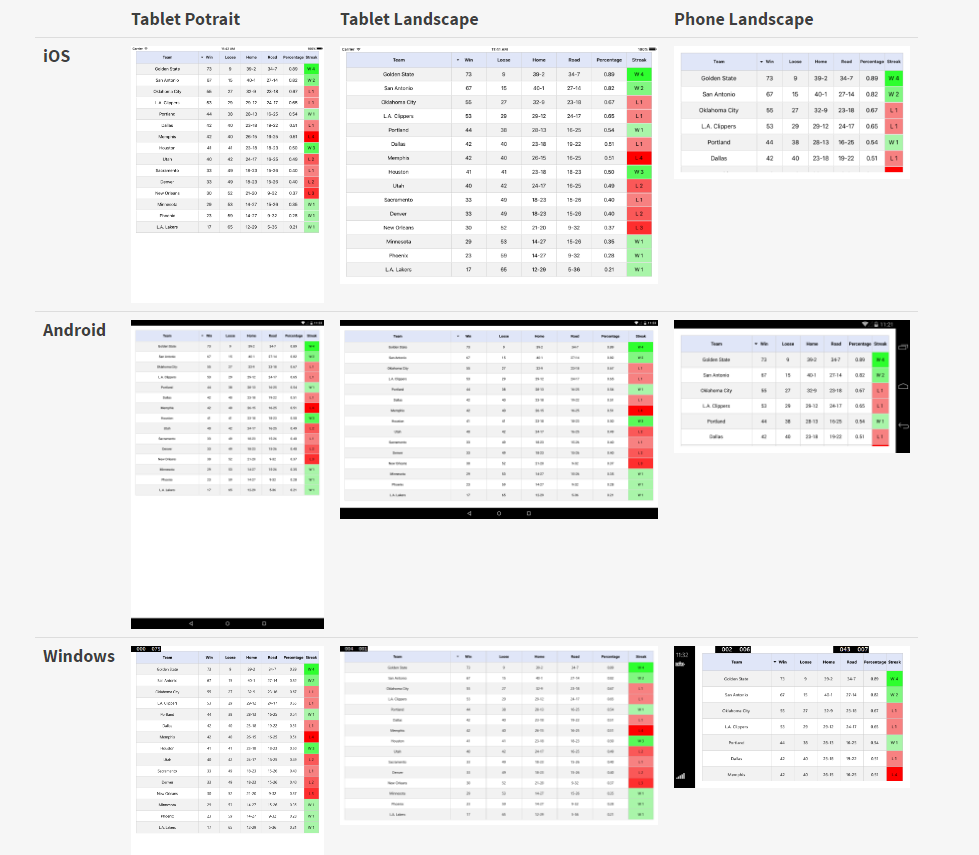
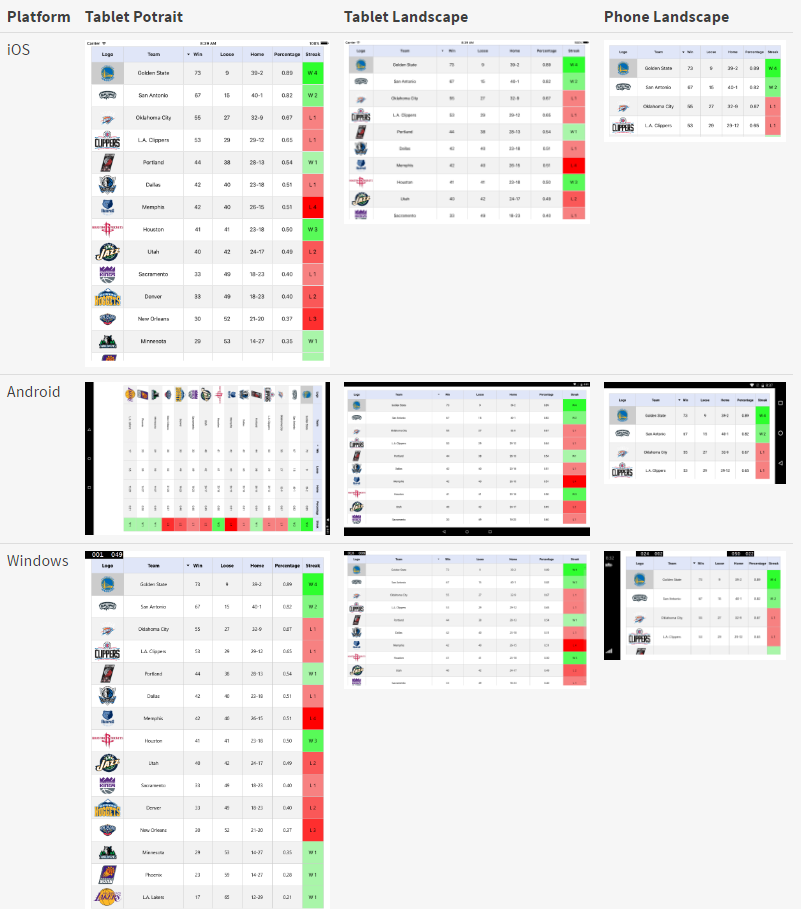
md file updated

diff --git a/README.md b/README.md
@@ -18,44 +18,49 @@ DataGrid library for Xamarin.Forms Application.
     xmlns:dg="clr-namespace:Xamarin.Forms.DataGrid;assembly=Xamarin.Forms.DataGrid"
     xmlns:conv="clr-namespace:DataGridSample.Views.Converters;assembly=DataGridSample"
 
-<dg:DataGrid ItemsSource="{Binding Teams}" RowHeight="45" HeaderHeight="50" 
-             BorderColor="#CCCCCC" HeaderBackground="#E0E6F8">
-  <dg:DataGrid.HeaderFontSize>
-    <OnIdiom  x:TypeArguments="x:Double">
-      <OnIdiom.Tablet>15</OnIdiom.Tablet>
-      <OnIdiom.Phone>13</OnIdiom.Phone>
-    </OnIdiom>
-  </dg:DataGrid.HeaderFontSize>
-  <dg:DataGrid.Columns>
-    <dg:DataGridColumn Title="Team" PropertyName="Name" Width="3*"/>
-    <dg:DataGridColumn Title="Win" PropertyName="Win" />
-    <dg:DataGridColumn Title="Loose" PropertyName="Loose" />
-    <dg:DataGridColumn Title="Home" PropertyName="Home"/>
-    <dg:DataGridColumn Title="Road" PropertyName="Road"/>
-    <dg:DataGridColumn Title="Percentage" PropertyName="Percentage" StringFormat="{}{0:0.00}" />
-    <dg:DataGridColumn Title="Streak" PropertyName="Streak" Width="0.7*">
-      <dg:DataGridColumn.CellTemplate>
-        <DataTemplate>
-          <ContentView HorizontalOptions="Fill" VerticalOptions="Fill"
-                       BackgroundColor="{Binding Streak,Converter={StaticResource StreakToColorConverter}}">
-            <Label Text="{Binding Streak}" HorizontalOptions="Center" VerticalOptions="Center" TextColor="Black"/>
-          </ContentView>
-        </DataTemplate>
-      </dg:DataGridColumn.CellTemplate>
-    </dg:DataGridColumn>
-  </dg:DataGrid.Columns>
-  <dg:DataGrid.RowsBackgroundColorPalette>
-    <dg:PaletteCollection>
-      <Color>#F2F2F2</Color>
-      <Color>#FFFFFF</Color>
-    </dg:PaletteCollection>
-  </dg:DataGrid.RowsBackgroundColorPalette>
-  <dg:DataGrid.Resources>
-    <ResourceDictionary>
-      <conv:StreakToColorConverter x:Key="StreakToColorConverter"/>
-    </ResourceDictionary>
-  </dg:DataGrid.Resources>
-</dg:DataGrid>
+    <dg:DataGrid ItemsSource="{Binding Teams}" RowHeight="70" HeaderHeight="50" BorderColor="#CCCCCC" HeaderBackground="#E0E6F8">
+      <dg:DataGrid.HeaderFontSize>
+        <OnIdiom  x:TypeArguments="x:Double">
+          <OnIdiom.Tablet>15</OnIdiom.Tablet>
+          <OnIdiom.Phone>12</OnIdiom.Phone>
+        </OnIdiom>
+      </dg:DataGrid.HeaderFontSize>
+      <dg:DataGrid.Columns>
+        <dg:DataGridColumn Title="Logo" PropertyName="Logo" Width="100">
+          <dg:DataGridColumn.CellTemplate>
+            <DataTemplate>
+              <Image Source="{Binding Logo}" HorizontalOptions="Center" VerticalOptions="Center" Aspect="AspectFit" HeightRequest="60" />
+            </DataTemplate>
+          </dg:DataGridColumn.CellTemplate>
+        </dg:DataGridColumn>
+        <dg:DataGridColumn Title="Team" PropertyName="Name" Width="2*"/>
+        <dg:DataGridColumn Title="Win" PropertyName="Win" Width="0.95*"/>
+        <dg:DataGridColumn Title="Loose" PropertyName="Loose"  Width="1*"/>
+        <dg:DataGridColumn Title="Home" PropertyName="Home"/>
+        <dg:DataGridColumn Title="Percentage" PropertyName="Percentage" StringFormat="{}{0:0.00}" />
+        <dg:DataGridColumn Title="Streak" PropertyName="Streak" Width="0.7*">
+          <dg:DataGridColumn.CellTemplate>
+            <DataTemplate>
+              <ContentView HorizontalOptions="Fill" VerticalOptions="Fill" 
+                           BackgroundColor="{Binding Streak,Converter={StaticResource StreakToColorConverter}}">
+                <Label Text="{Binding Streak}" HorizontalOptions="Center" VerticalOptions="Center" TextColor="Black"/>
+              </ContentView>
+            </DataTemplate>
+          </dg:DataGridColumn.CellTemplate>
+        </dg:DataGridColumn>
+      </dg:DataGrid.Columns>
+      <dg:DataGrid.RowsBackgroundColorPalette>
+        <dg:PaletteCollection>
+          <Color>#F2F2F2</Color>
+          <Color>#FFFFFF</Color>
+        </dg:PaletteCollection>
+      </dg:DataGrid.RowsBackgroundColorPalette>
+      <dg:DataGrid.Resources>
+        <ResourceDictionary>
+          <conv:StreakToColorConverter x:Key="StreakToColorConverter"/>
+        </ResourceDictionary>
+      </dg:DataGrid.Resources>
+    </dg:DataGrid>
 ```
 Screenshots
 -------------
